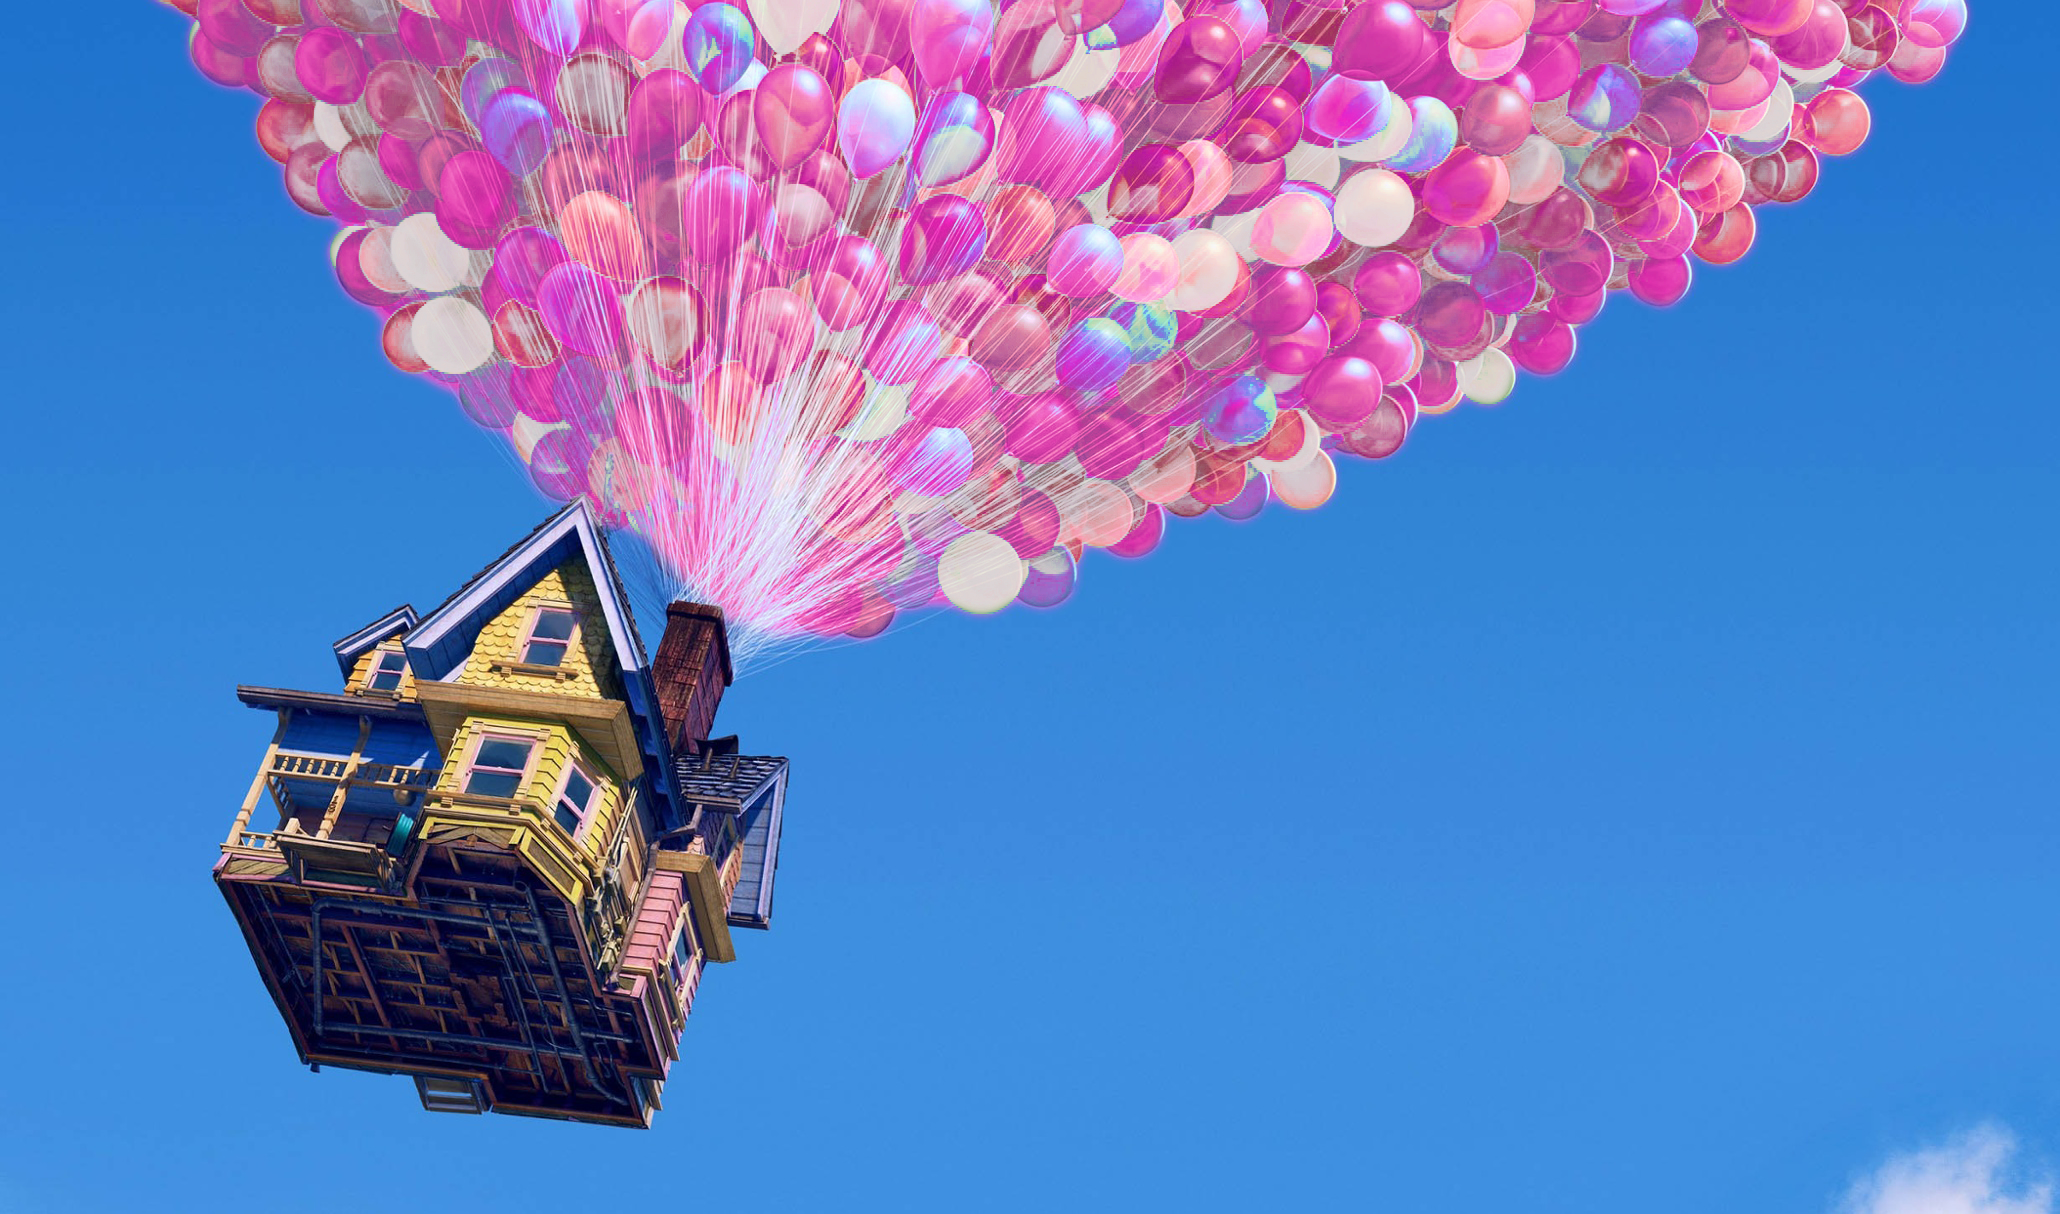
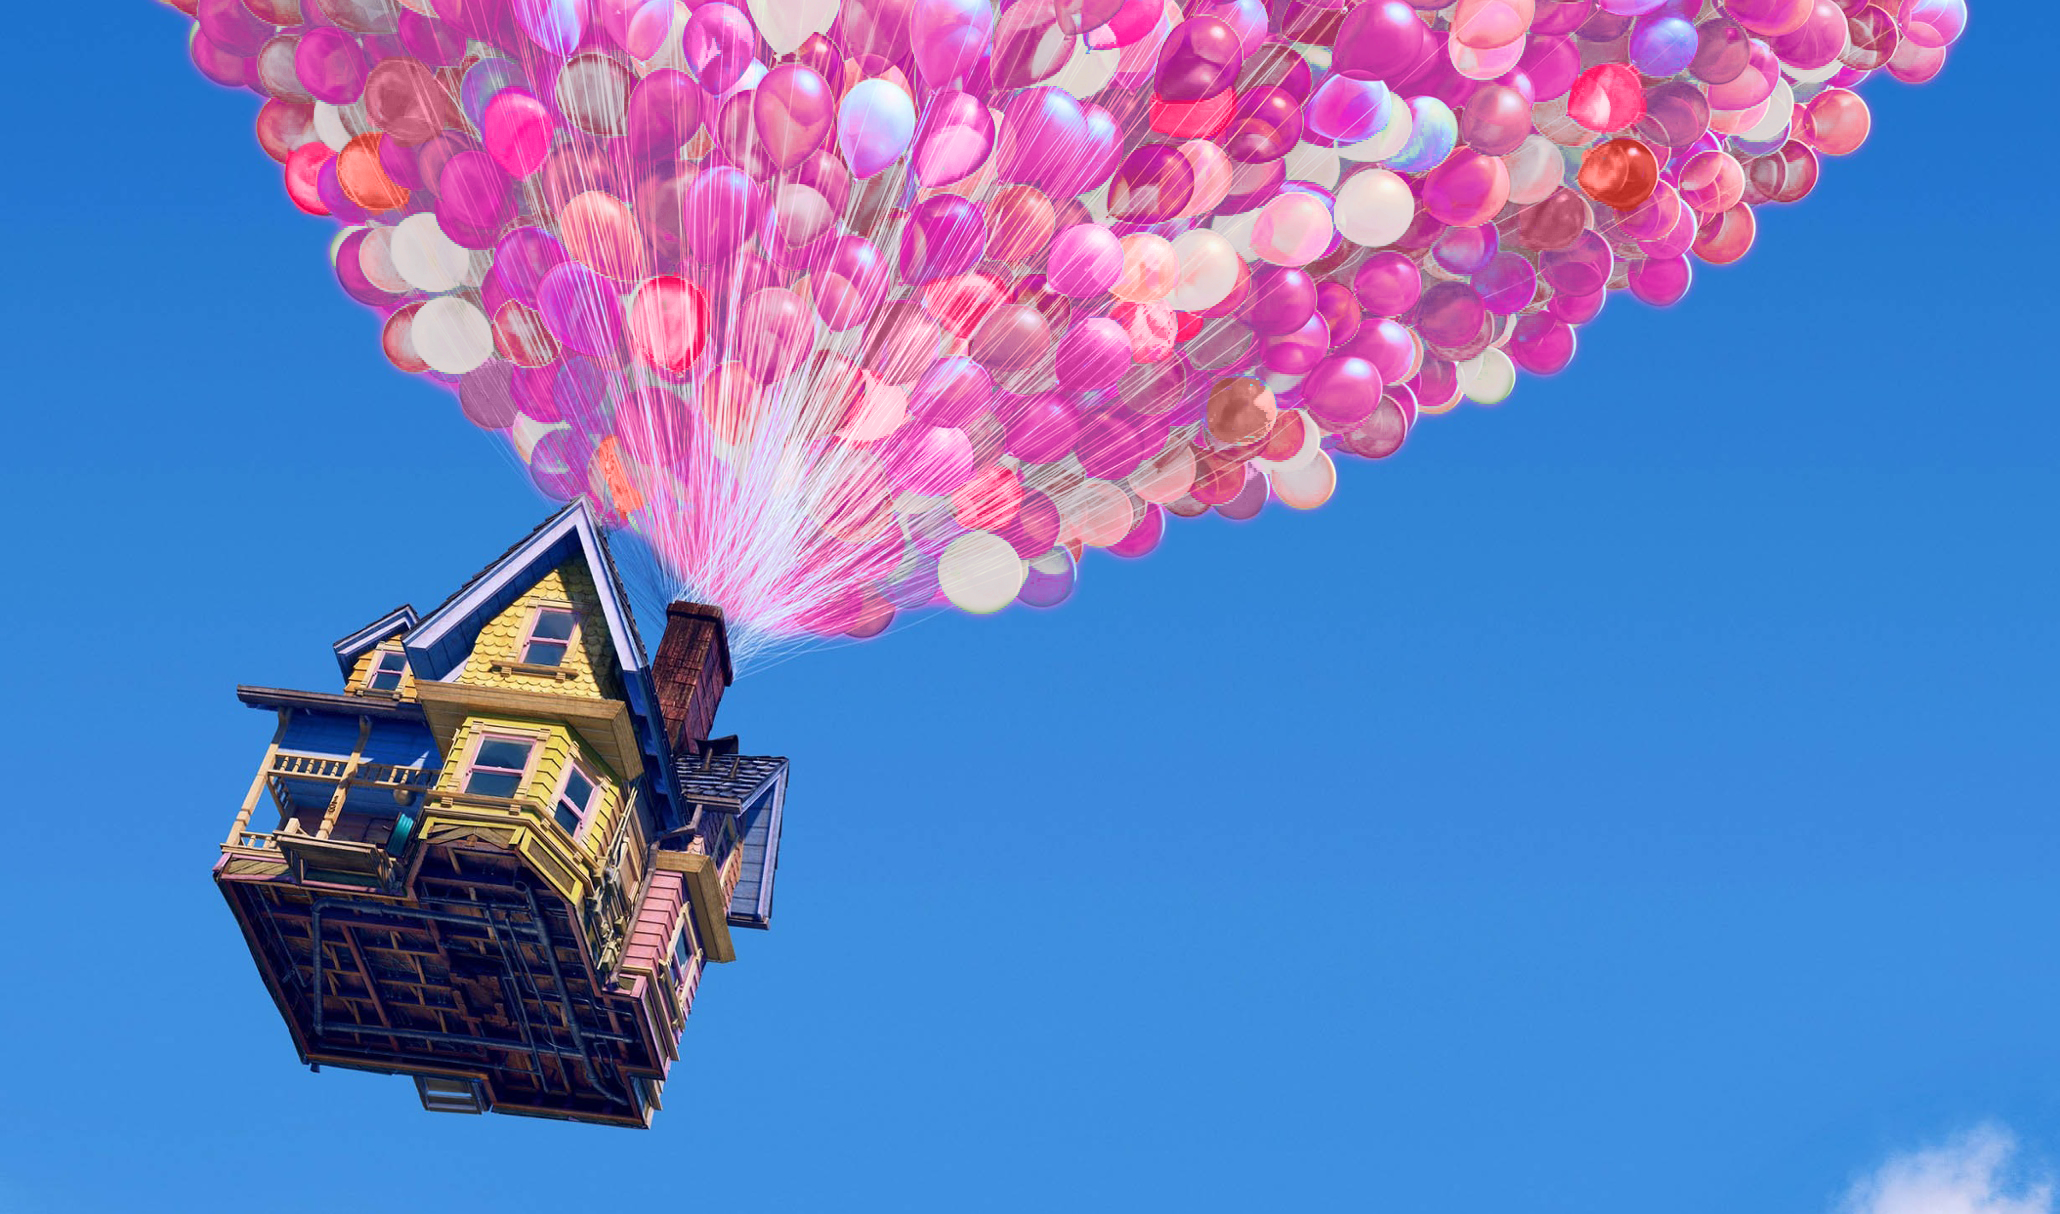
change cover photo

diff --git a/assets/css/main.css b/assets/css/main.css
@@ -2801,7 +2801,7 @@
 		background-color: #4686a0;
 		color: rgba(255, 255, 255, 0.75);
 		background-attachment: fixed,							fixed,							fixed;
-		background-image: url("images/overlay2.png"), url("images/overlay3.svg"), url("../../images/pinkballoons2.png");
+		background-image: url("images/overlay2.png"), url("images/overlay3.svg"), url("../../images/pinkballoons3.png");
 		background-position: top left,						center center,					center center;
 		background-size: auto,							cover,							cover;
 		overflow: hidden;
@@ -2952,7 +2952,7 @@
 			-webkit-transition: opacity 1s ease;
 			-ms-transition: opacity 1s ease;
 			transition: opacity 1s ease;
-			background-image: url("../../images/pinkballoons2.png");
+			background-image: url("../../images/pinkballoons.png");
 			content: '';
 			height: 100%;
 			left: 0;
